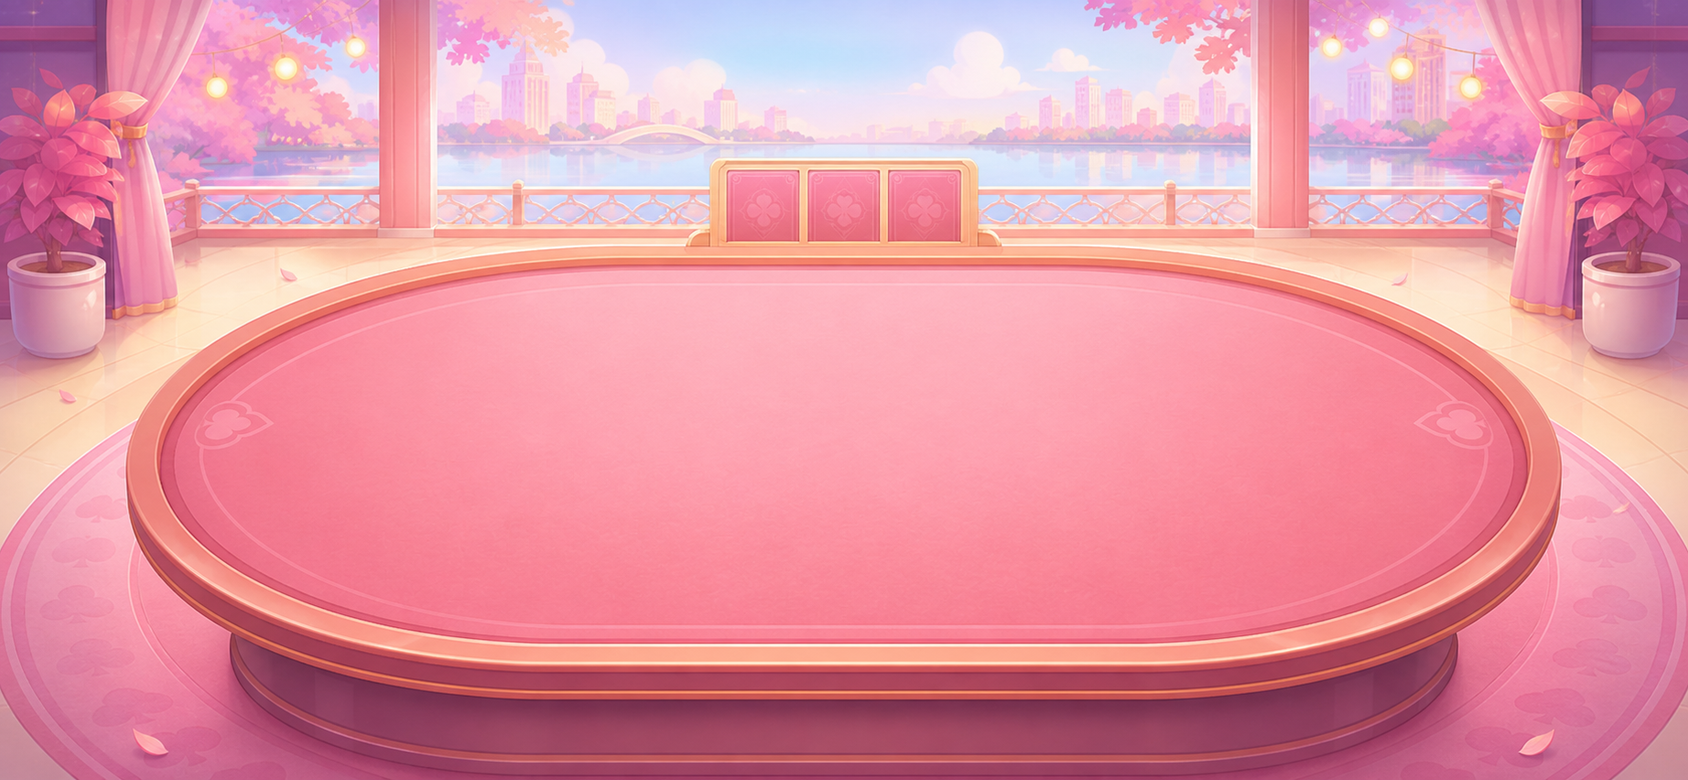
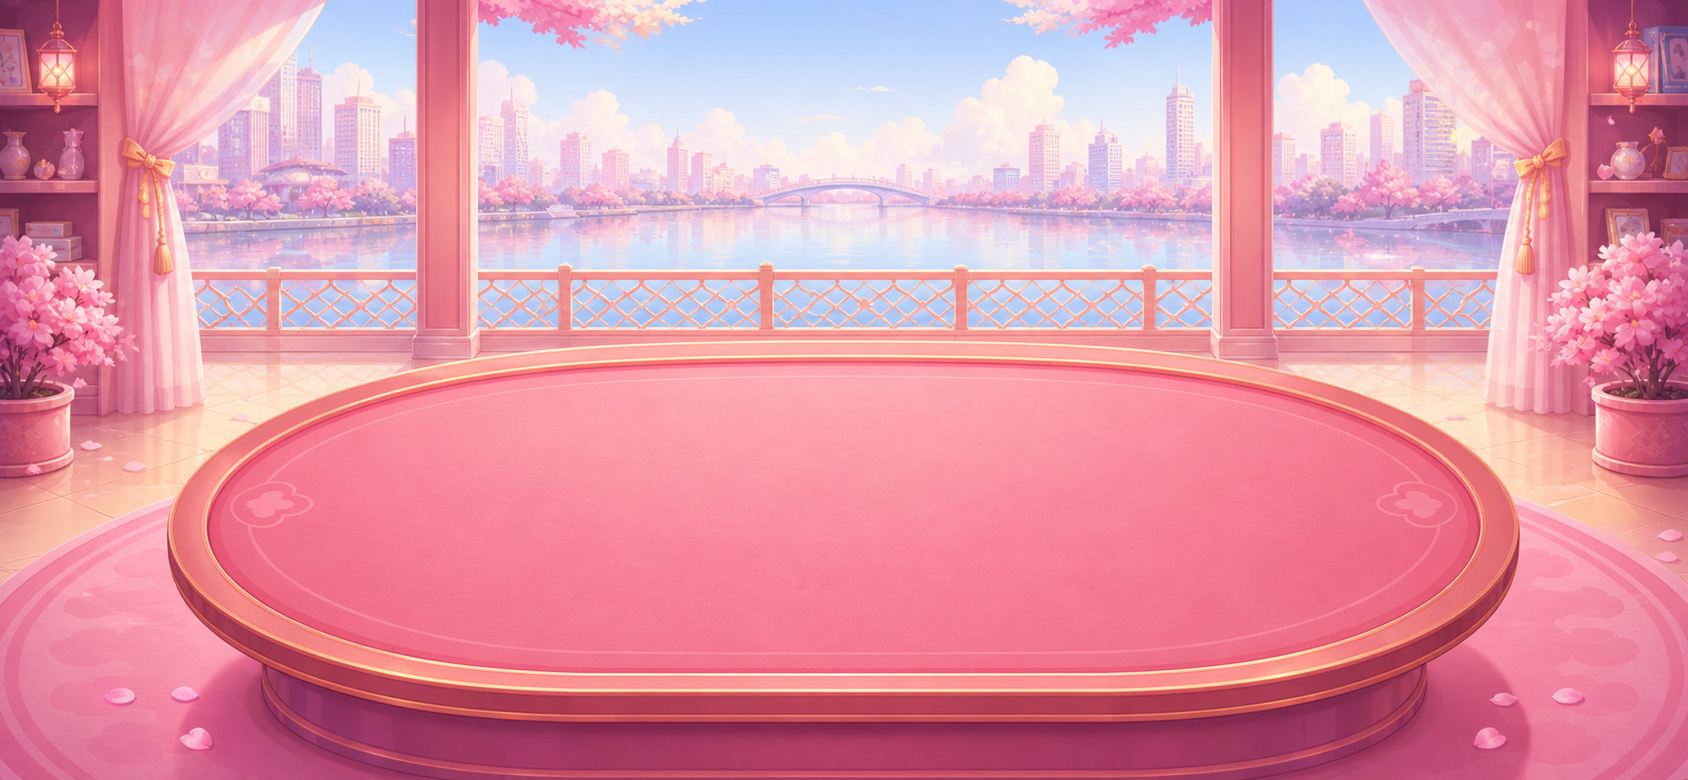
fix(ART-GAME-REMAKE): match reference table character relation

diff --git a/asset-previews/v13-pink-game-remake/scripts/finalize_imagegen_v13.py b/asset-previews/v13-pink-game-remake/scripts/finalize_imagegen_v13.py
@@ -66,23 +66,23 @@ CARD_SPECS = [
 
 ZONE_SIZES = {
   "844x390": {
-    "heroBody": (8, 156, 152, 234),
-    "leftBody": (168, 47, 152, 234),
-    "rightBody": (684, 47, 152, 234),
-    "heroNameplate": (8, 271, 152, 33),
-    "leftNameplate": (176, 171, 152, 33),
-    "rightNameplate": (684, 171, 152, 33),
+    "heroBody": (17, 199, 120, 191),
+    "leftBody": (145, 47, 120, 191),
+    "rightBody": (577, 47, 120, 191),
+    "heroNameplate": (8, 271, 138, 33),
+    "leftNameplate": (153, 148, 152, 33),
+    "rightNameplate": (667, 148, 152, 33),
     "hand": (176, 304, 660, 86),
     "action": (287, 247, 270, 49),
     "settlement": (186, 35, 473, 195),
   },
   "780x360": {
-    "heroBody": (8, 144, 140, 216),
-    "leftBody": (156, 43, 140, 216),
-    "rightBody": (632, 43, 140, 216),
-    "heroNameplate": (8, 249, 140, 31),
-    "leftNameplate": (164, 157, 140, 31),
-    "rightNameplate": (632, 157, 140, 31),
+    "heroBody": (16, 184, 112, 176),
+    "leftBody": (136, 43, 112, 176),
+    "rightBody": (531, 43, 112, 176),
+    "heroNameplate": (8, 249, 130, 31),
+    "leftNameplate": (144, 136, 140, 31),
+    "rightNameplate": (615, 136, 140, 31),
     "hand": (164, 280, 608, 80),
     "action": (264, 227, 252, 45),
     "settlement": (172, 32, 437, 180),
@@ -204,6 +204,8 @@ def build_scene_composite(zone_key: str, size: tuple[int, int], out: Path, mode:
   paste_subject_fit(canvas, OUT_AVATAR / "left-ai-body-v13.png", zones["leftBody"])
   paste_subject_fit(canvas, OUT_AVATAR / "right-ai-body-v13.png", zones["rightBody"])
   paste_subject_fit(canvas, OUT_AVATAR / "hero-body-v13.png", zones["heroBody"])
+  restore_table_foreground(canvas, bg, zones["leftBody"])
+  restore_table_foreground(canvas, bg, zones["rightBody"])
   paste_fit(canvas, OUT_UI / "seat-nameplate-v13.png", zones["leftNameplate"])
   paste_fit(canvas, OUT_UI / "seat-nameplate-v13.png", zones["rightNameplate"])
   paste_fit(canvas, OUT_UI / "seat-nameplate-v13.png", zones["heroNameplate"])
@@ -259,6 +261,18 @@ def paste_subject_fit(canvas: Image.Image, asset_path: Path, rect: tuple[int, in
   x, y, w, h = rect
   fitted = contain(asset, (w, h), 0)
   canvas.alpha_composite(fitted, (x, y))
+
+
+def restore_table_foreground(canvas: Image.Image, background: Image.Image, rect: tuple[int, int, int, int]) -> None:
+  x, y, w, h = rect
+  top = y + round(h * 0.74)
+  left = max(0, x - 14)
+  right = min(canvas.width, x + w + 14)
+  bottom = min(canvas.height, y + h + 20)
+  if top >= bottom or left >= right:
+    return
+  patch = background.crop((left, top, right, bottom))
+  canvas.alpha_composite(patch, (left, top))
 
 
 def draw_cards(canvas: Image.Image, rect: tuple[int, int, int, int], count: int) -> None:
@@ -439,7 +453,7 @@ def write_prompts() -> None:
     "- Existing `*-preview.png`, `review-sheet.png`, and `composites/composite-*.png` are **layout mockup only / 非正式资产** from the older Pillow pass.",
     "- Formal `*-v13.png` assets in this package are derived from built-in `image_gen` source images under `source/generated-v13/`.",
     "- Pillow is used only for non-creative post-processing: crop, chroma-key removal, resize, 9-slice stretch simulation, review-sheet/composite layout, and sha256 calculation.",
-    "- User feedback fix 2026-07-05: bidding/playing/settlement composites were rejected because characters overlapped, the three body sizes were inconsistent, and the hero appeared on the tabletop instead of beside the hand. Composite zones now mirror T-LAYOUT3 fix `927b375`, use equal body rectangles, and keep the hero left of `heroHandLarge`; no image_gen source was regenerated.",
+    "- User feedback fix 2026-07-05: bidding/playing/settlement composites were rejected because characters overlapped, the three body sizes were inconsistent, and the hero appeared on the tabletop instead of beside the hand. Follow-up feedback required the upper-left and upper-right characters to move further left, all three characters to be smaller, and the table/background relationship to match the reference more closely. Composite zones now mirror T-LAYOUT3 fix `602c9b1`, use equal body rectangles, keep the hero left of `heroHandLarge`, and use a regenerated built-in image_gen table background with a lower pink tabletop. Avatar/UI/card source images were reused.",
     "",
     "## Built-in image_gen source prompts",
     "",

diff --git a/asset-previews/v13-pink-game-remake/PROMPTS.md b/asset-previews/v13-pink-game-remake/PROMPTS.md
@@ -8,7 +8,7 @@
 - Existing `*-preview.png`, `review-sheet.png`, and `composites/composite-*.png` are **layout mockup only / 非正式资产** from the older Pillow pass.
 - Formal `*-v13.png` assets in this package are derived from built-in `image_gen` source images under `source/generated-v13/`.
 - Pillow is used only for non-creative post-processing: crop, chroma-key removal, resize, 9-slice stretch simulation, review-sheet/composite layout, and sha256 calculation.
-- User feedback fix 2026-07-05: bidding/playing/settlement composites were rejected because characters overlapped, the three body sizes were inconsistent, and the hero appeared on the tabletop instead of beside the hand. Composite zones now mirror T-LAYOUT3 fix `927b375`, use equal body rectangles, and keep the hero left of `heroHandLarge`; no image_gen source was regenerated.
+- User feedback fix 2026-07-05: bidding/playing/settlement composites were rejected because characters overlapped, the three body sizes were inconsistent, and the hero appeared on the tabletop instead of beside the hand. Follow-up feedback required the upper-left and upper-right characters to move further left, all three characters to be smaller, and the table/background relationship to match the reference more closely. Composite zones now mirror T-LAYOUT3 fix `602c9b1`, use equal body rectangles, keep the hero left of `heroHandLarge`, and use a regenerated built-in image_gen table background with a lower pink tabletop. Avatar/UI/card source images were reused.
 
 ## Built-in image_gen source prompts
 
@@ -32,9 +32,9 @@ Prompt summary: text-free pink cartoon card sprite sheet on flat #00ff00 chroma-
 
[10 lines of base64/hex data omitted]
@@ -65,7 +65,7 @@ Prompt summary: text-free pink cartoon card sprite sheet on flat #00ff00 chroma-
[11 lines of base64/hex data omitted]

diff --git a/coordination/reports/ART-GAME-REMAKE.report.md b/coordination/reports/ART-GAME-REMAKE.report.md
@@ -2,7 +2,7 @@
 
 - 实现方标识：Codex
 - 分支：`task/ART-GAME-REMAKE`
-- 状态：in-review（用户图审打回重排已提交；等待用户复审；未进入 import）
+- 状态：in-review（用户图审多轮打回已重排；等待用户复审；未进入 import）
 
 ## 改了哪些文件
 
@@ -249,6 +249,80 @@ tsc --noEmit passed
 git diff --check
 passed
 ```
+
+## 用户图审继续打回返工段（Codex · 2026-07-05 · final reference-placement pass）
+
+### 继续打回项
+
+- 用户反馈：左上角人物仍违背约束，出现在牌桌上面。
+- 用户反馈：可以整体缩小三个人物。
+- 用户反馈：需严格对比参考图中人物和牌桌的关系，人物位置、相对位置和大小尽量一致。
+- 用户反馈：可以改变背景里面牌桌的大小；左上和右上人物继续再往左边相对移动一点点。
+
+### 修复方式
+
+- `T-LAYOUT3` 已提交 `602c9b1`：三名 body 继续同尺寸，但缩小到 844×390 下 `120×191`、780×360 下 `112×176`；玩家仍在手牌左侧，左上/右上人物相对上一版继续左移。
+- 重新生成 1 张内置 `image_gen` 背景源图，使粉色牌桌更低、更大，贴近参考图的“人物站在桌后、玩家在左下手牌旁”的关系。
+  - 原始内置输出：`/Users/admin/.codex/generated_images/019f2d58-cc34-7472-9821-6580a3c4f362/ig_0bf088c2a871a614016a49421478608199b88bd8940dbe40a1.png`
+  - 工作区留存：`asset-previews/v13-pink-game-remake/source/generated-v13/game-table-bg-v13-source.png`
+- 复用既有角色/UI/卡牌 image_gen 源图，不重生人物，不改正式分项资源风格。
+- 更新 `finalize_imagegen_v13.py` 的 `ZONE_SIZES`，并重跑：
+  - `composites/v13/composite-844x390-bidding-v13.png`
+  - `composites/v13/composite-780x360-playing-v13.png`
+  - `composites/v13/composite-844x390-settlement-v13.png`
+  - `review-sheet-v2.png`
+  - `manifest-v13.json`
+  - `PROMPTS.md`
+
+### 最新目检记录（执行者辅助，不替代用户结论）
+
+- `composite-844x390-bidding-v13.png`：三名人物不重叠；左上/右上人物已继续左移；玩家在手牌左侧，未进入牌桌中央。
+- `composite-780x360-playing-v13.png`：三名人物整体缩小；左上人物贴左侧桌沿后方，右上人物不贴最右边；底部手牌可读。
+- `composite-844x390-settlement-v13.png`：暗幕下保留三人围桌关系，结算大字居中；玩家仍在左下手牌侧。
+
+### 最新机械校验
+
+```
+python3 asset-previews/v13-pink-game-remake/scripts/finalize_imagegen_v13.py
+completed
+
+asset list check
+missing []
+not_manifest []
+old_entries []
+alpha_bad []
+
+manifest_count 39
+source/generated-v13/game-table-bg-v13-source.png 5d25b99738156ef3 1844x853 alpha False corners False
+backgrounds/game-table-bg-v13.png 7c36e82a352354e0 1688x780 alpha False corners False
+composites/v13/composite-844x390-bidding-v13.png a19a59f53ce25d76 844x390 alpha False corners False
+composites/v13/composite-780x360-playing-v13.png 735c2c5fc3562fe1 780x360 alpha False corners False
+composites/v13/composite-844x390-settlement-v13.png 6c671bb01cb7c606 844x390 alpha False corners False
+review-sheet-v2.png fc5b4064a9ae1cdc 1800x1320 alpha False corners False
+```
+
+### 最新测试与类型检查输出
+
+```
+npm --prefix test test
+Test Files  140 passed (140)
+Tests       711 passed (711)
+
+npm --prefix test run typecheck
+tsc --noEmit passed
+
+git diff --check
+passed
+```
+
+### 最新用户图审入口
+
+- `asset-previews/v13-pink-game-remake/review-sheet-v2.png`
+- `asset-previews/v13-pink-game-remake/composites/v13/composite-844x390-bidding-v13.png`
+- `asset-previews/v13-pink-game-remake/composites/v13/composite-780x360-playing-v13.png`
+- `asset-previews/v13-pink-game-remake/composites/v13/composite-844x390-settlement-v13.png`
+- `asset-previews/v13-pink-game-remake/PROMPTS.md`
+- `asset-previews/v13-pink-game-remake/manifest-v13.json`
 
 ## 疑问 / 需规划者裁定
 
